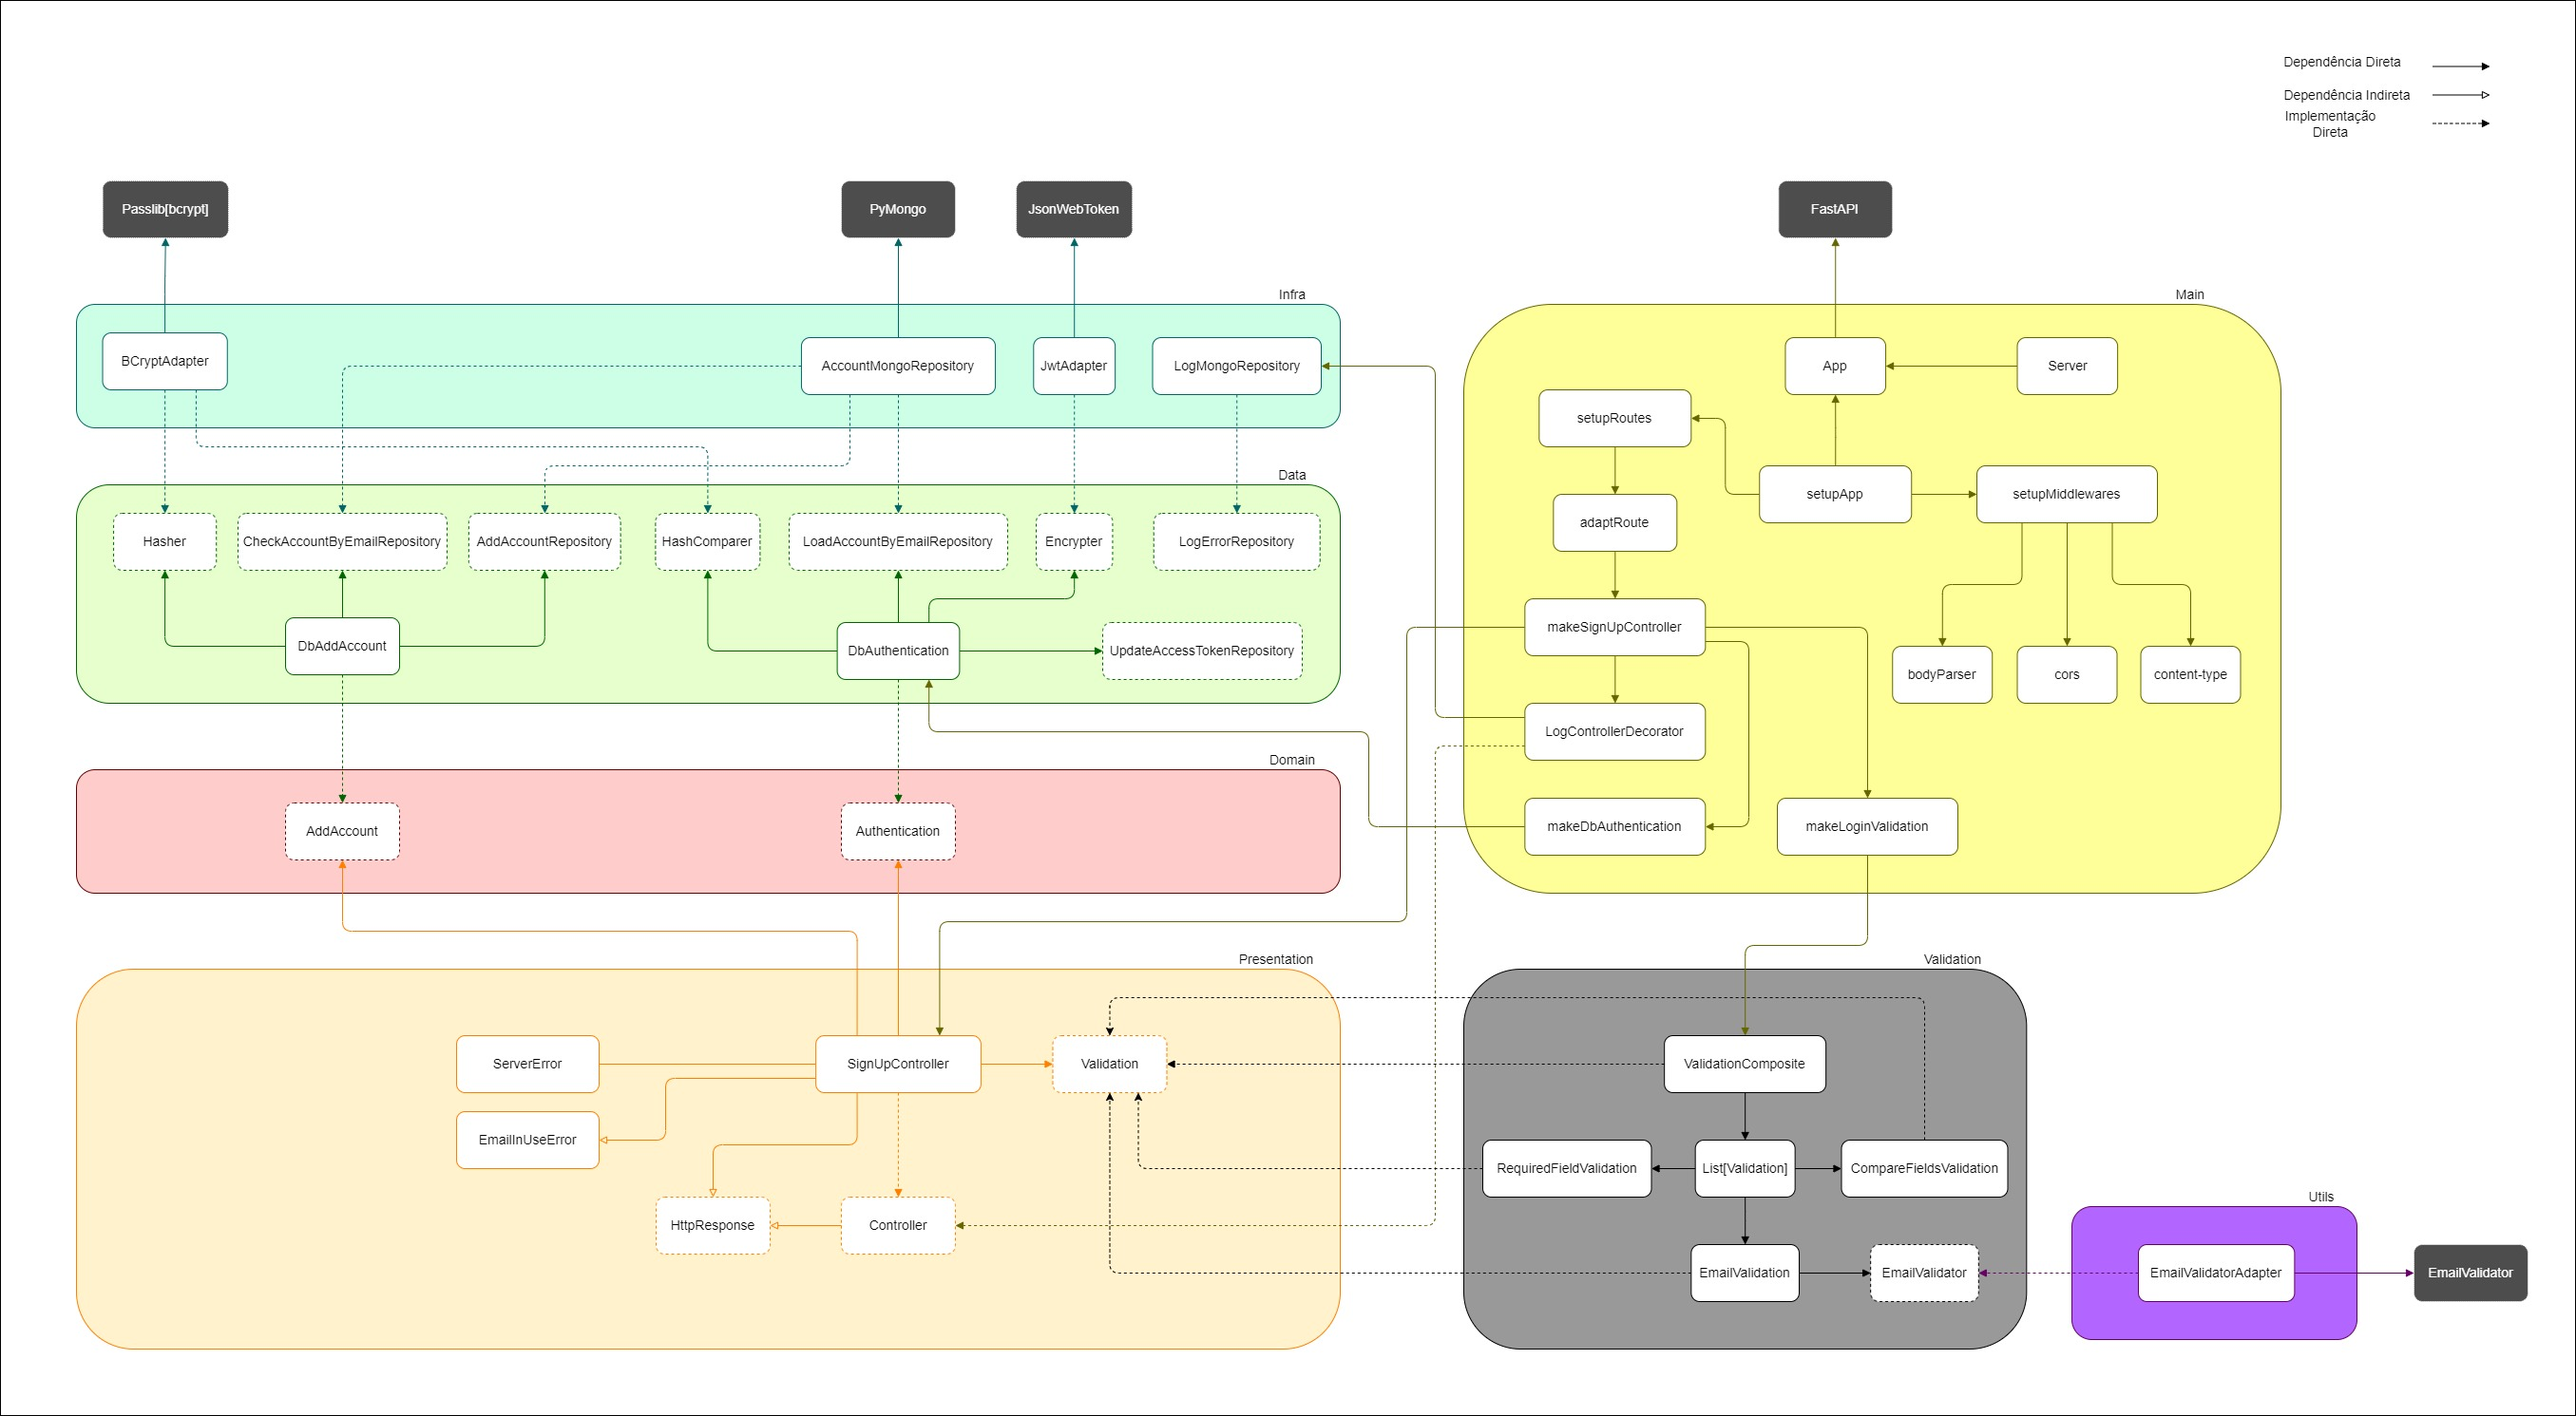
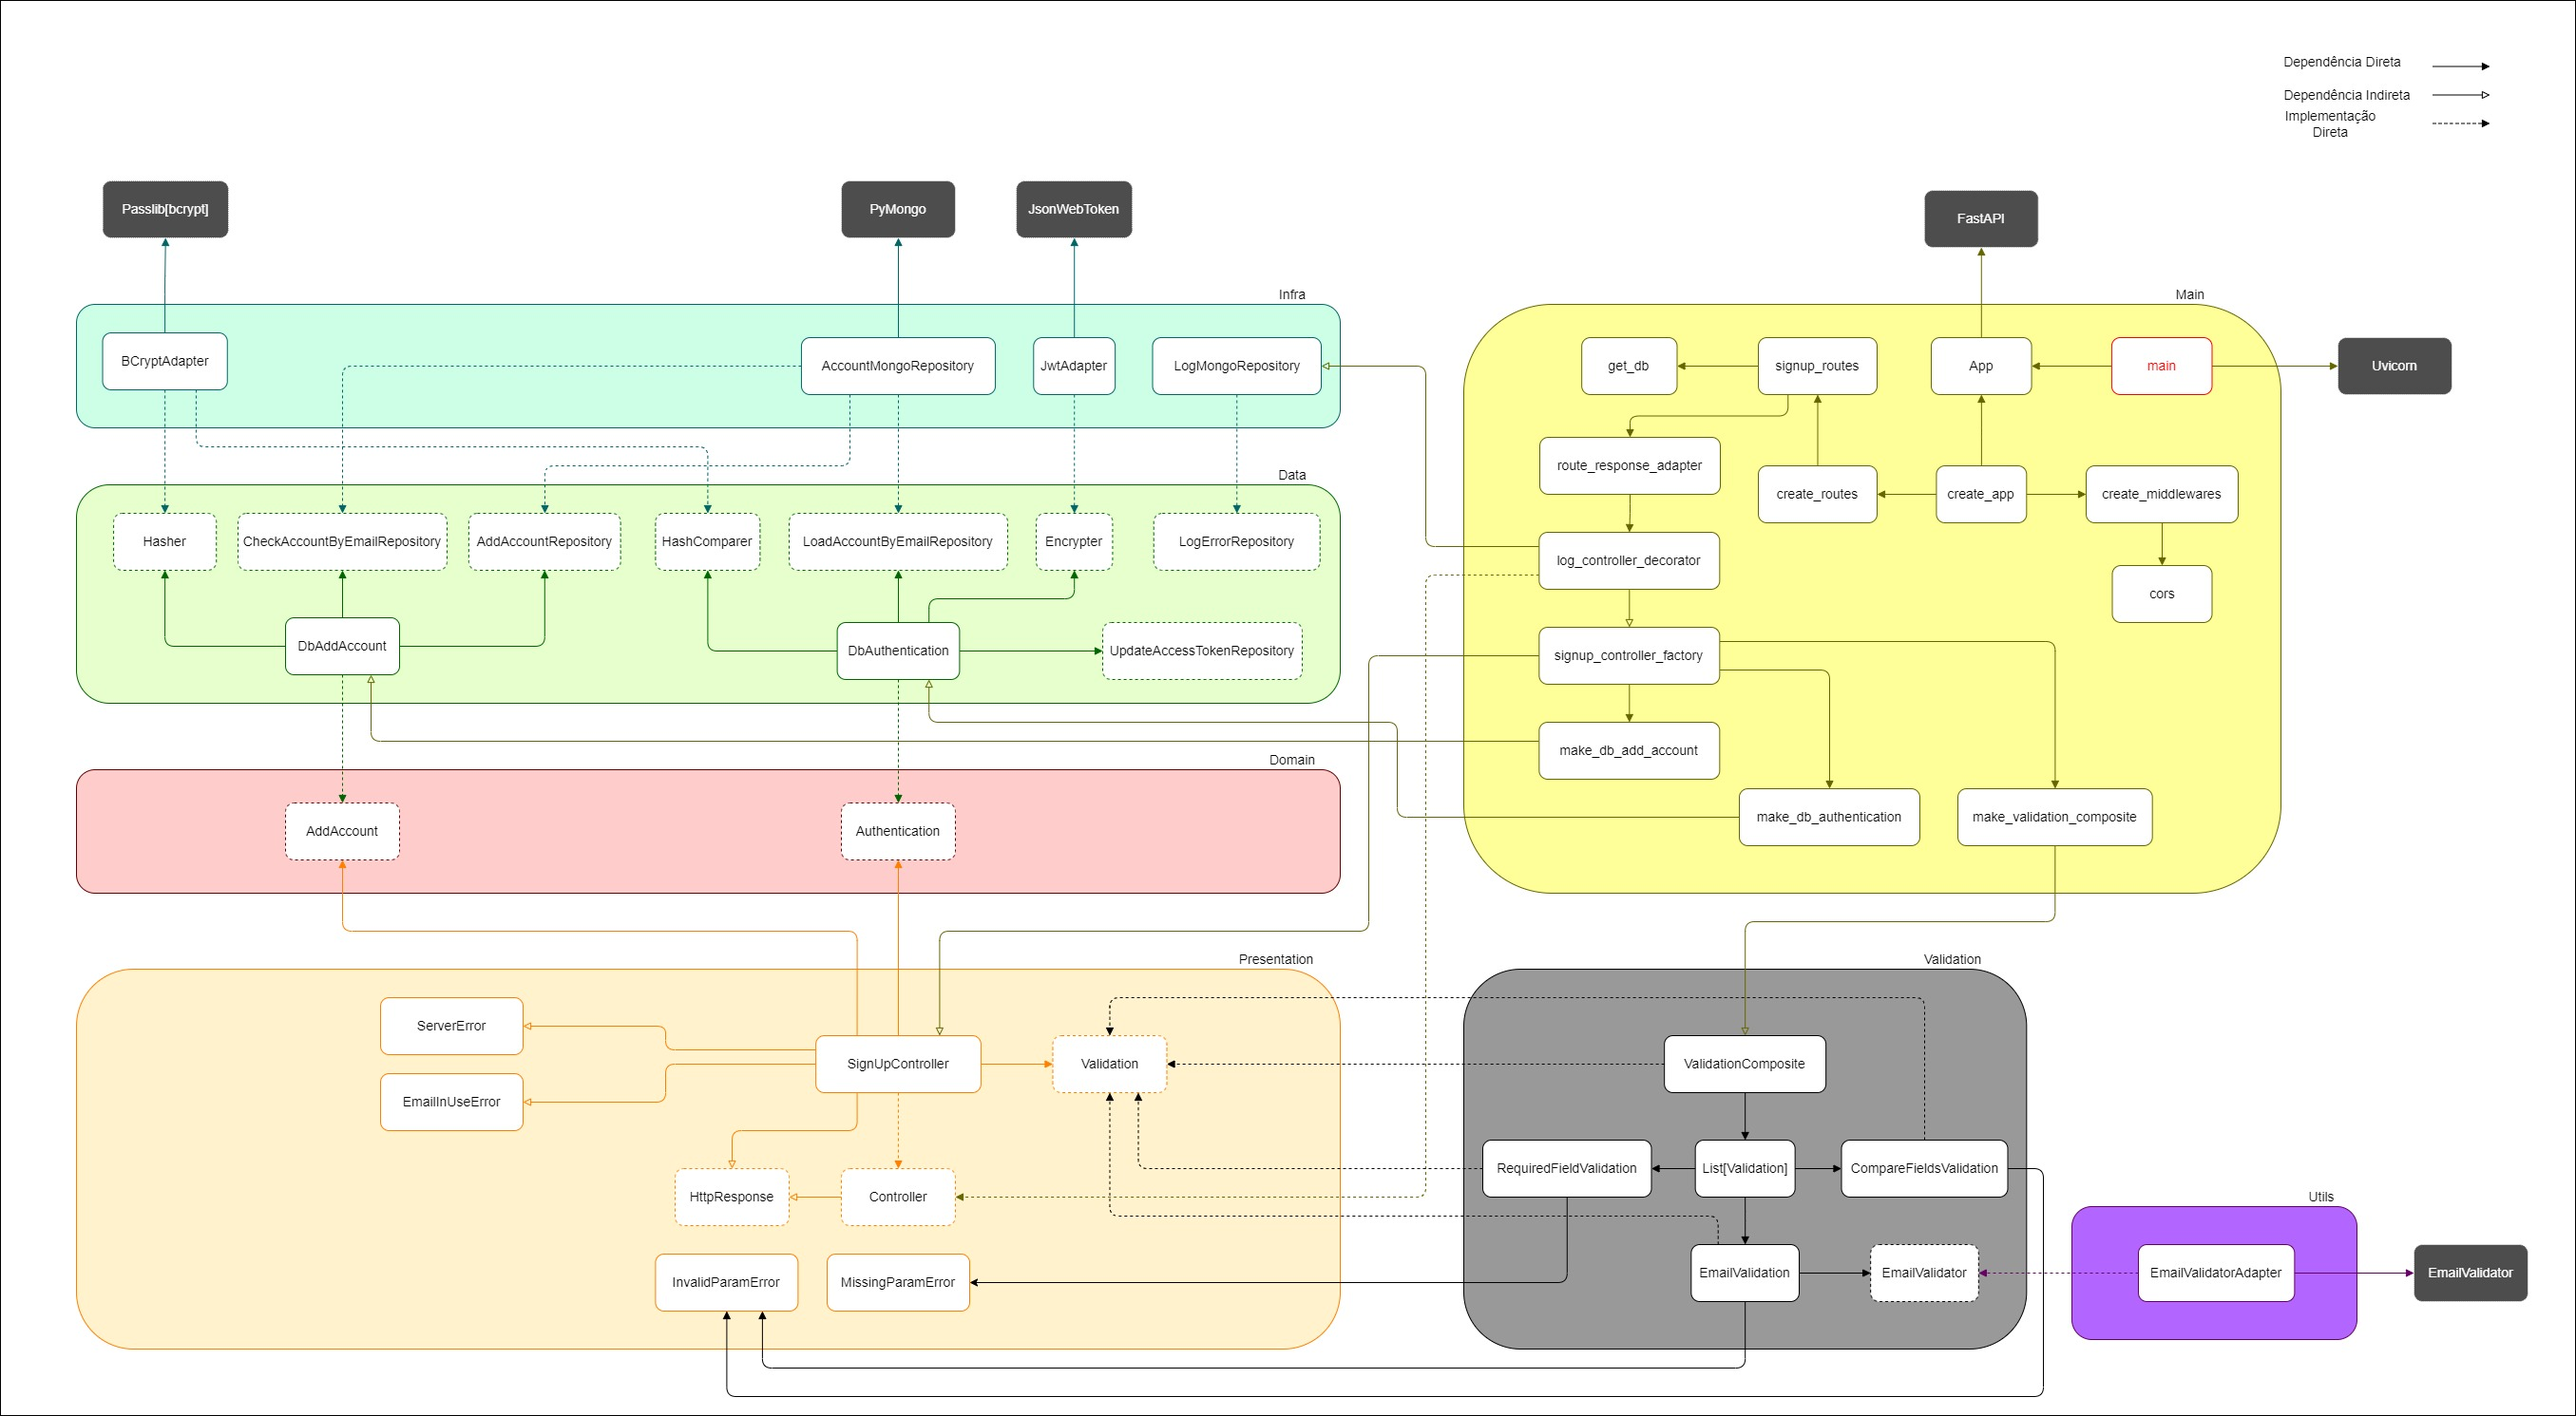
add route response adapter

diff --git a/src/main/routes/signup_routes.py b/src/main/routes/signup_routes.py
@@ -1,18 +1,21 @@
-from fastapi import APIRouter, Depends
+from fastapi import APIRouter, Depends, status
 from pymongo import MongoClient
 
 from ...presentation.params import SignUpControllerRequest
-from ...presentation.helpers import HttpResponse
 
-from ..factories.controllers import make_signup_controller
 from ..config.database import get_db
+from ..adapters import route_response_adapter
+from ..factories.controllers import signup_controller_factory
+from ..models import SignUpResponseModel
 
 router = APIRouter(
   prefix='/signup',
   tags=['SignUp']
 )
 
-@router.post('/', response_model=HttpResponse)
+
+@router.post('/', status_code=status.HTTP_201_CREATED, response_model=SignUpResponseModel)
 def create_user(request: SignUpControllerRequest, client: MongoClient = Depends(get_db)):
-  controller = make_signup_controller(client=client)
-  return controller.handle(request)
+  controller = signup_controller_factory(client=client)
+  http_response = controller.handle(request)
+  return route_response_adapter(http_response)

diff --git a/src/main/adapters/route_response_adapter.py b/src/main/adapters/route_response_adapter.py
@@ -1,0 +1,22 @@
+from fastapi import HTTPException, status
+from typing import Any
+
+from ...presentation.helpers import HttpResponse
+
+def route_response_adapter(http_response: HttpResponse) -> Any:
+  status_code: int = http_response['status_code']
+
+  match status_code:
+    case 201: return http_response
+    case 400: raise HTTPException(
+      status_code=status.HTTP_400_BAD_REQUEST,
+      detail=f"{http_response['body']}"
+    )
+    case 403: raise HTTPException(
+      status_code=status.HTTP_403_FORBIDDEN,
+      detail=f"{http_response['body']}"
+    )
+    case _: raise HTTPException(
+      status_code=status.HTTP_500_INTERNAL_SERVER_ERROR,
+      detail=f"{http_response['body']}"
+    )

diff --git a/src/main/factories/controllers/signup_controller_factory.py b/src/main/factories/controllers/signup_controller_factory.py
@@ -5,7 +5,8 @@ from ....presentation.controllers import SignUpController
 
 from ...usecases import make_db_add_account, make_signup_validation
 
-def make_signup_controller(client: MongoClient = None) -> Controller:
+
+def signup_controller_factory(client: MongoClient = None) -> Controller:
   return SignUpController(
     add_account=make_db_add_account(client=client),
     validation=make_signup_validation()

diff --git a/src/presentation/errors/__init__.py b/src/presentation/errors/__init__.py
@@ -1,4 +1,4 @@
-from .emai_in_use_error import EmailInUseError
+from .email_in_use_error import EmailInUseError
 from .invalid_param_error import InvalidParamError
 from .missing_param_error import MissingParamError
 from .server_error import ServerError

diff --git a/tests/main/routes/signup_routes_test.py b/tests/main/routes/signup_routes_test.py
@@ -23,8 +23,7 @@ class TestSignupRoutes:
       }
     )
 
-    assert response.status_code == 200
+    assert response.status_code == 201
     assert response.json() == {
-      "status_code": 201,
       "body": True
     }

diff --git a/src/main/factories/controllers/__init__.py b/src/main/factories/controllers/__init__.py
@@ -1,1 +1,1 @@
-from .signup_controller_factory import make_signup_controller
+from .signup_controller_factory import signup_controller_factory

diff --git a/src/main/models/signup_response_model.py b/src/main/models/signup_response_model.py
@@ -1,0 +1,5 @@
+from pydantic import BaseModel
+from typing import Any
+
+class SignUpResponseModel(BaseModel):
+  body: Any

diff --git a/src/main/adapters/__init__.py b/src/main/adapters/__init__.py
@@ -1,0 +1,1 @@
+from .route_response_adapter import route_response_adapter

diff --git a/src/main/models/__init__.py b/src/main/models/__init__.py
@@ -1,0 +1,1 @@
+from .signup_response_model import SignUpResponseModel

diff --git a/readme.md b/readme.md
@@ -100,6 +100,6 @@ O objetivo é criar APIs com uma arquitetura bem definida e desacoplada, utiliza
 * Spies
 * Fakes
 
-> ## Features do PostgreSQL
+> ## Features do MongoDB
 
 * Add
